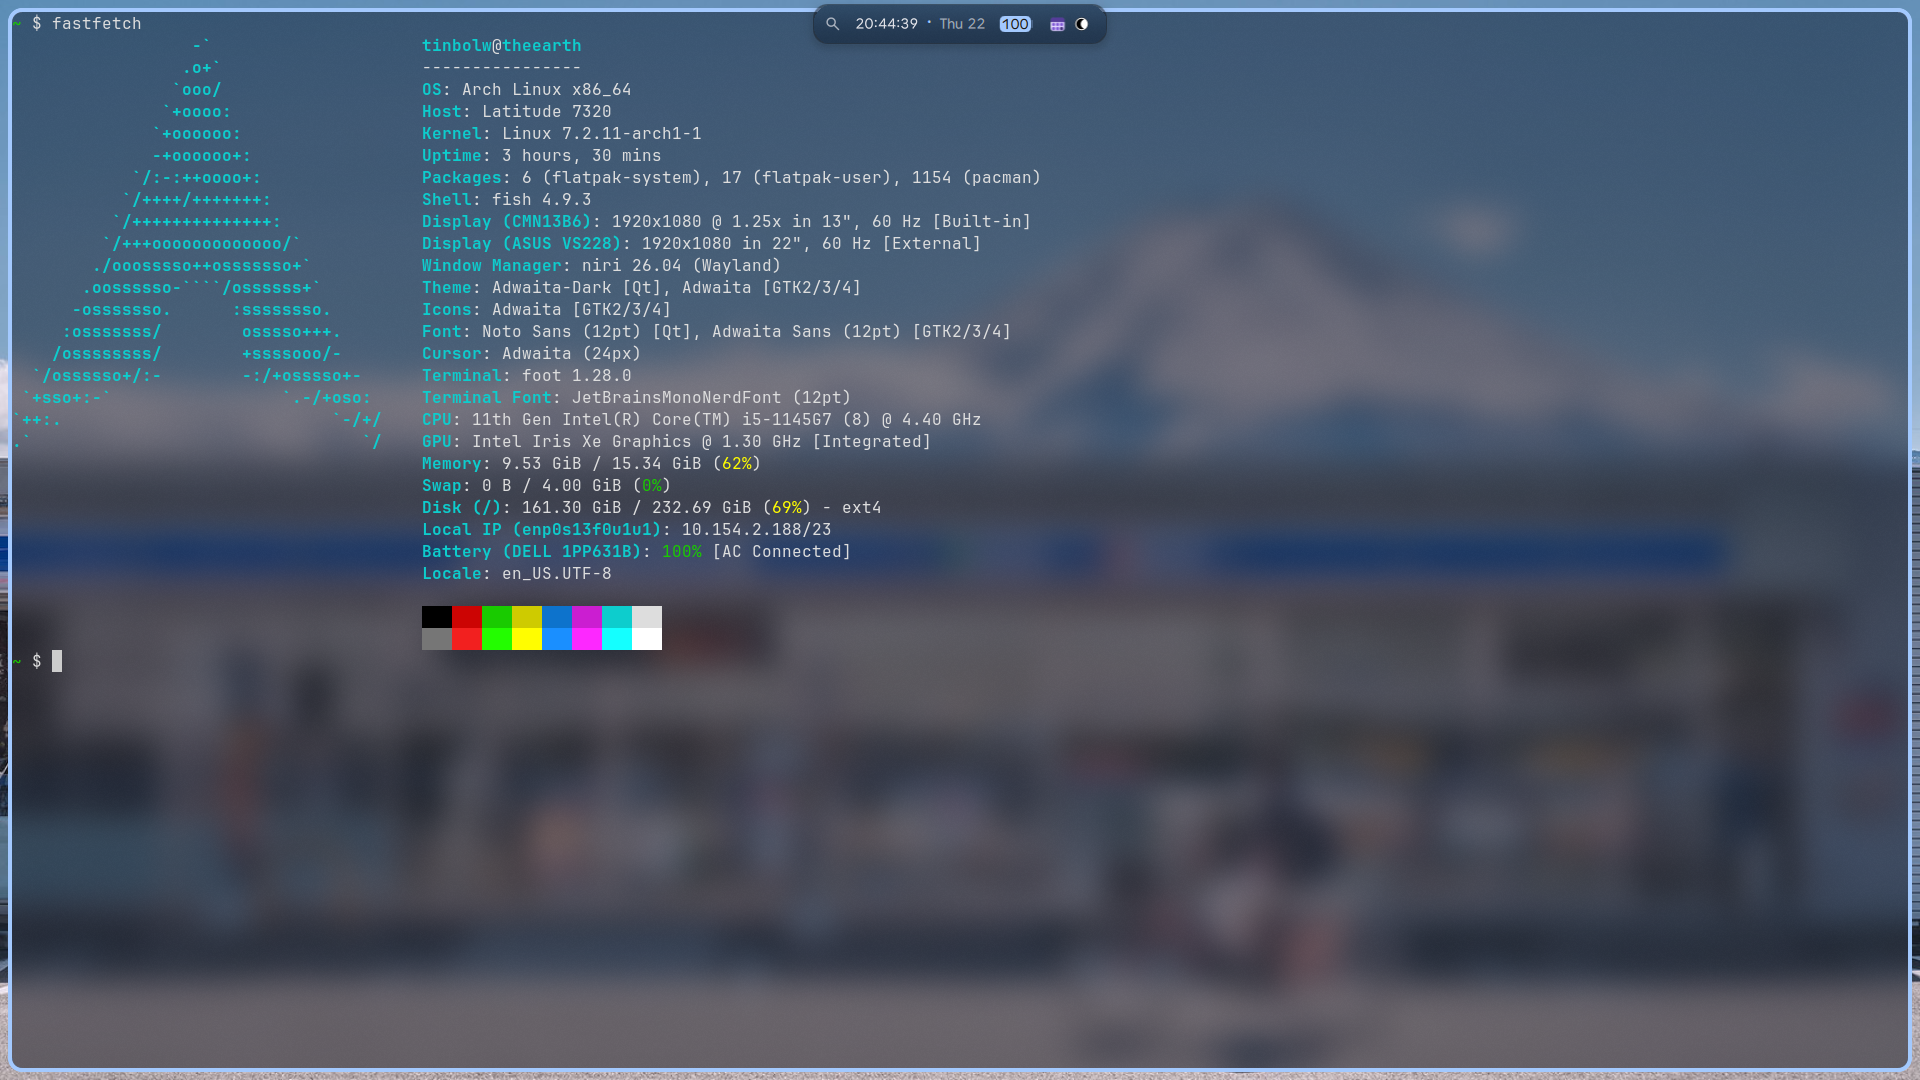
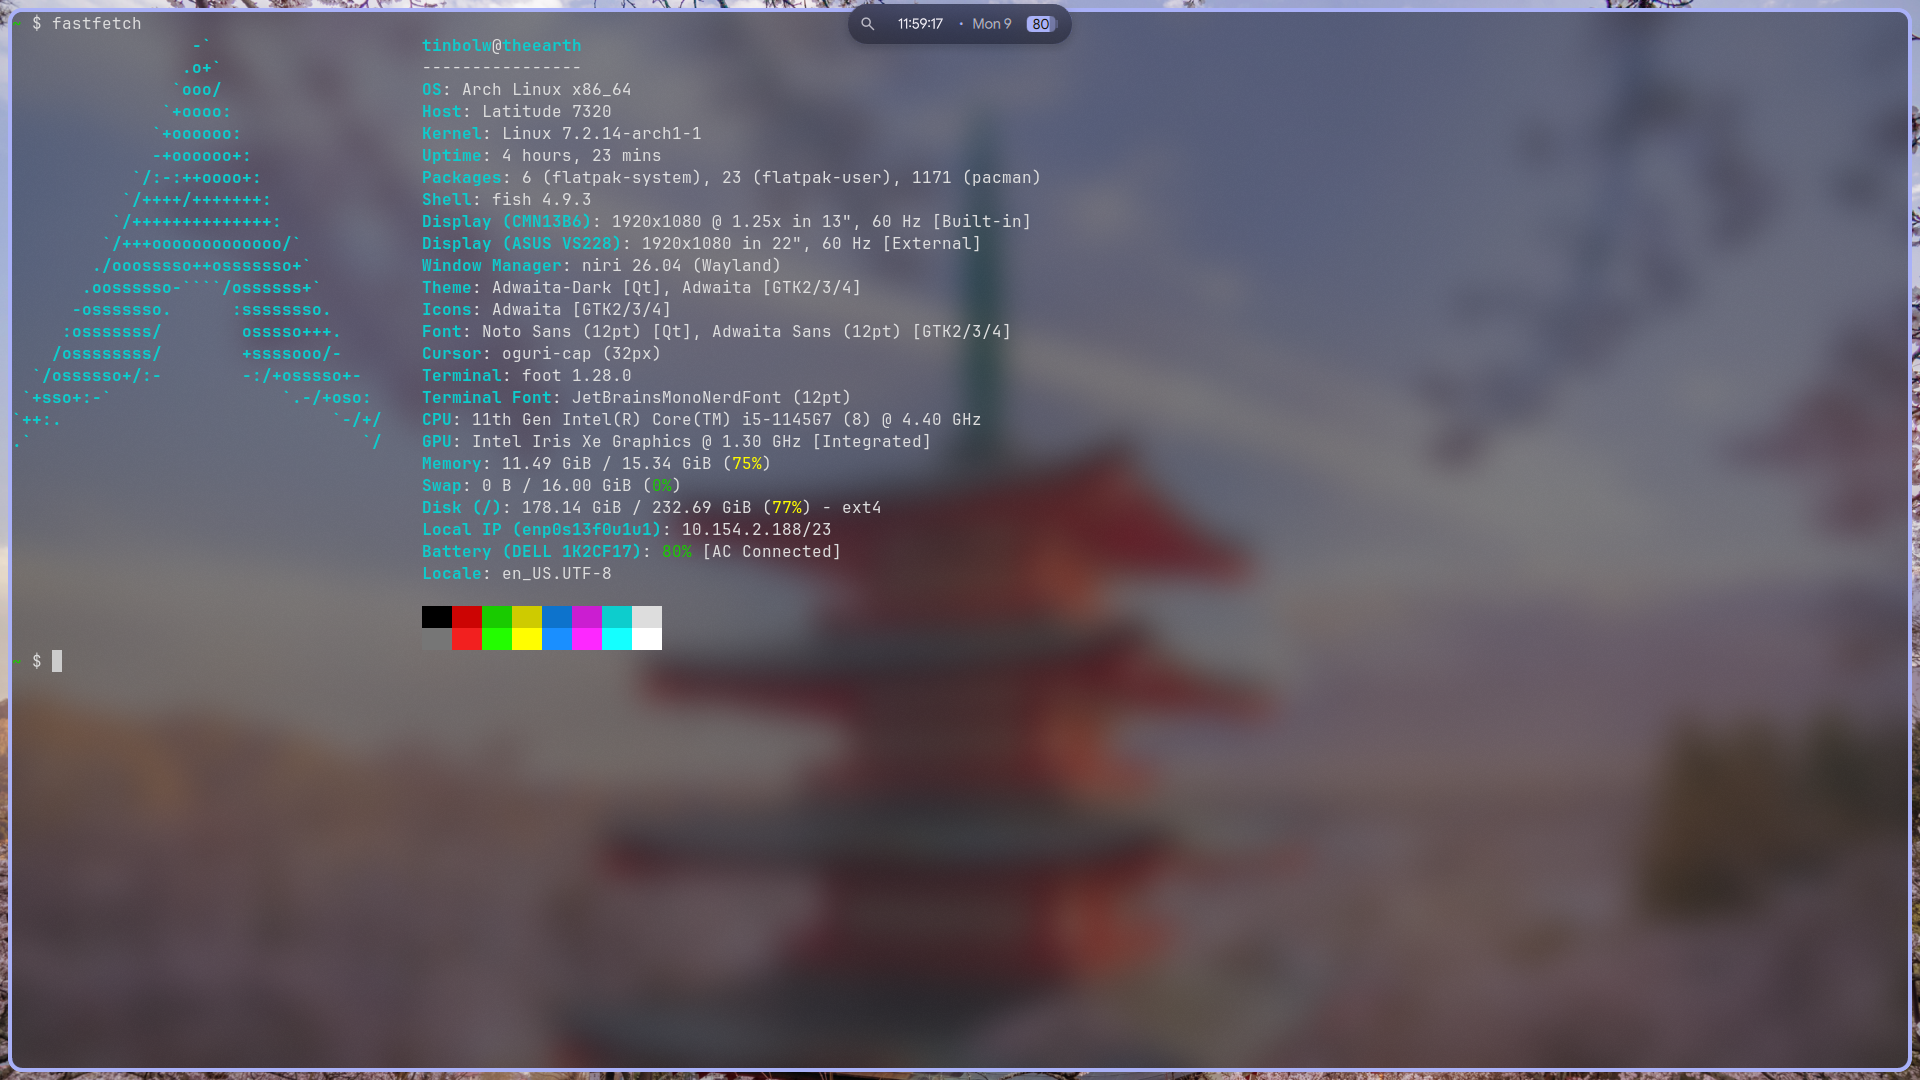
docs: update README, gallery

diff --git a/README.md b/README.md
@@ -11,15 +11,16 @@ Keeping it fast and simple.
 |  |  |
 | - | - |
 | Bootloader | None (efibootmgr) |
+| Color Generator | [Matugen](https://github.com/InioX/matugen) |
 | Desktop Environment | [niri](https://github.com/niri-wm/niri) |
 | Display Manager | None (getty) |
 | File Manager | [nautilus](https://github.com/GNOME/nautilus) |
 | Image Viewer | [Loupe](https://github.com/GNOME/loupe) |
-| Launcher | [vicinae](https://github.com/vicinaehq/vicinae) |
 | Music Player | [Decibels](https://github.com/GNOME/decibels) |
-| Shell | [Dux Shell](https://github.com/duxlabs-dev/dux-shell) |
+| Shell (includes Launcher) | [Dux Modular Shell](https://github.com/duxlabs-dev/dux-shell) |
 | Terminal Emulator | [foot](https://codeberg.org/dnkl/foot) |
 | Video Player | [mpv](https://github.com/mpv-player/mpv)|
+| Wallpapers | [skwd-wall](https://github.com/liixini/skwd-wall)|
 
 ## Wallpapers
 https://wallhaven.cc/user/tinbolw/favorites/2141087
@@ -27,7 +28,9 @@ https://wallhaven.cc/user/tinbolw/favorites/2141087
 ## Gallery
 ### Desktop
 ![Desktop](/gallery/theearth.png)
-### Dash
-![Theme](/gallery/dash.png)
 ### Bar
 ![Bar](/gallery/bar.png)
+### Dash
+![Theme](/gallery/dash.png)
+### Settings
+![Settings](/gallery/settings.png)
